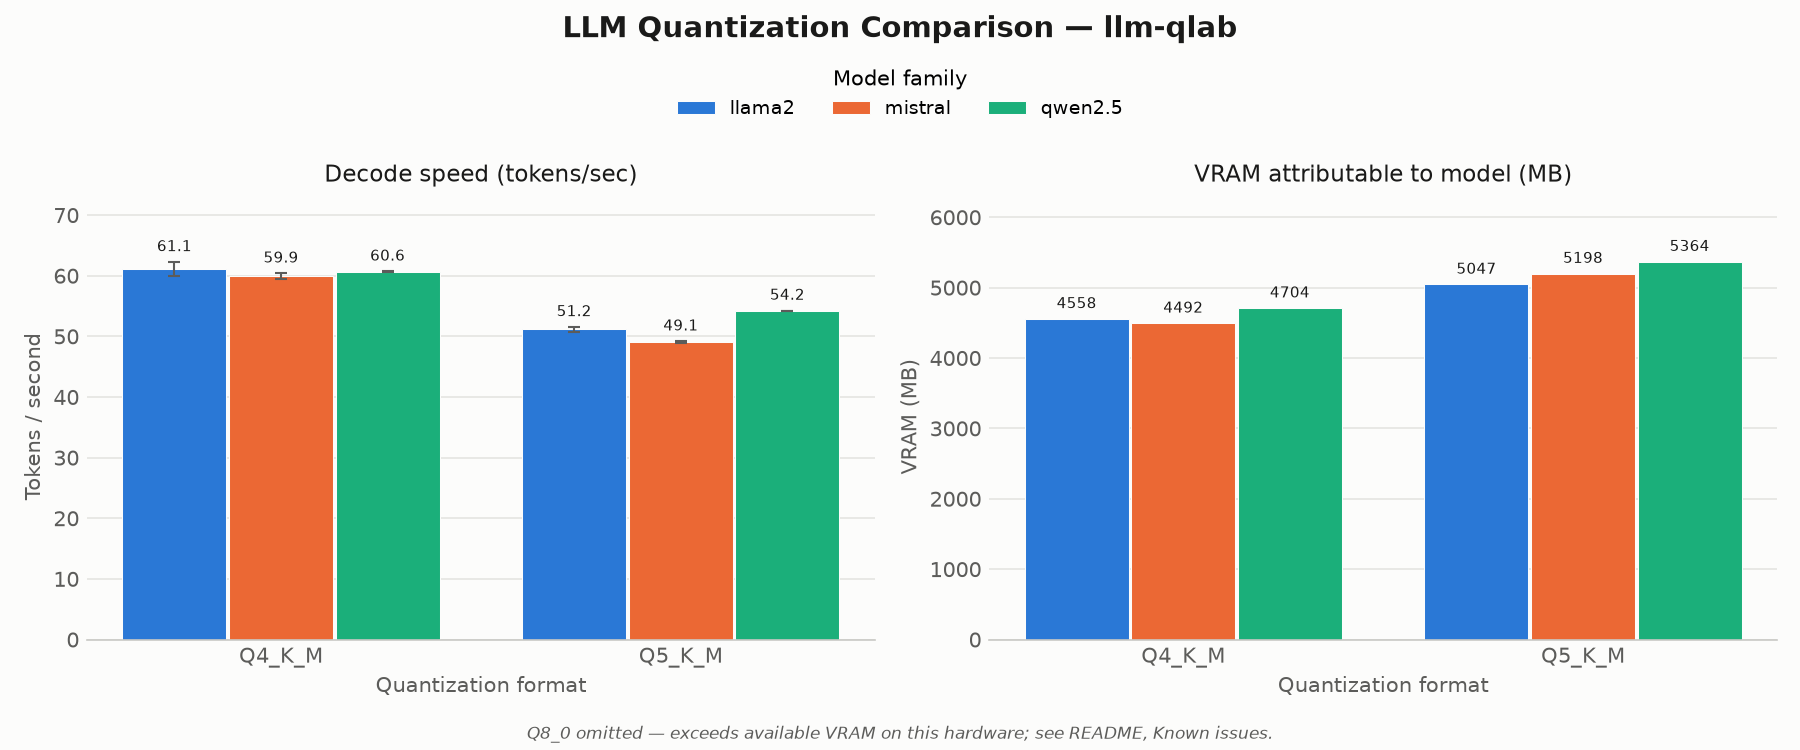
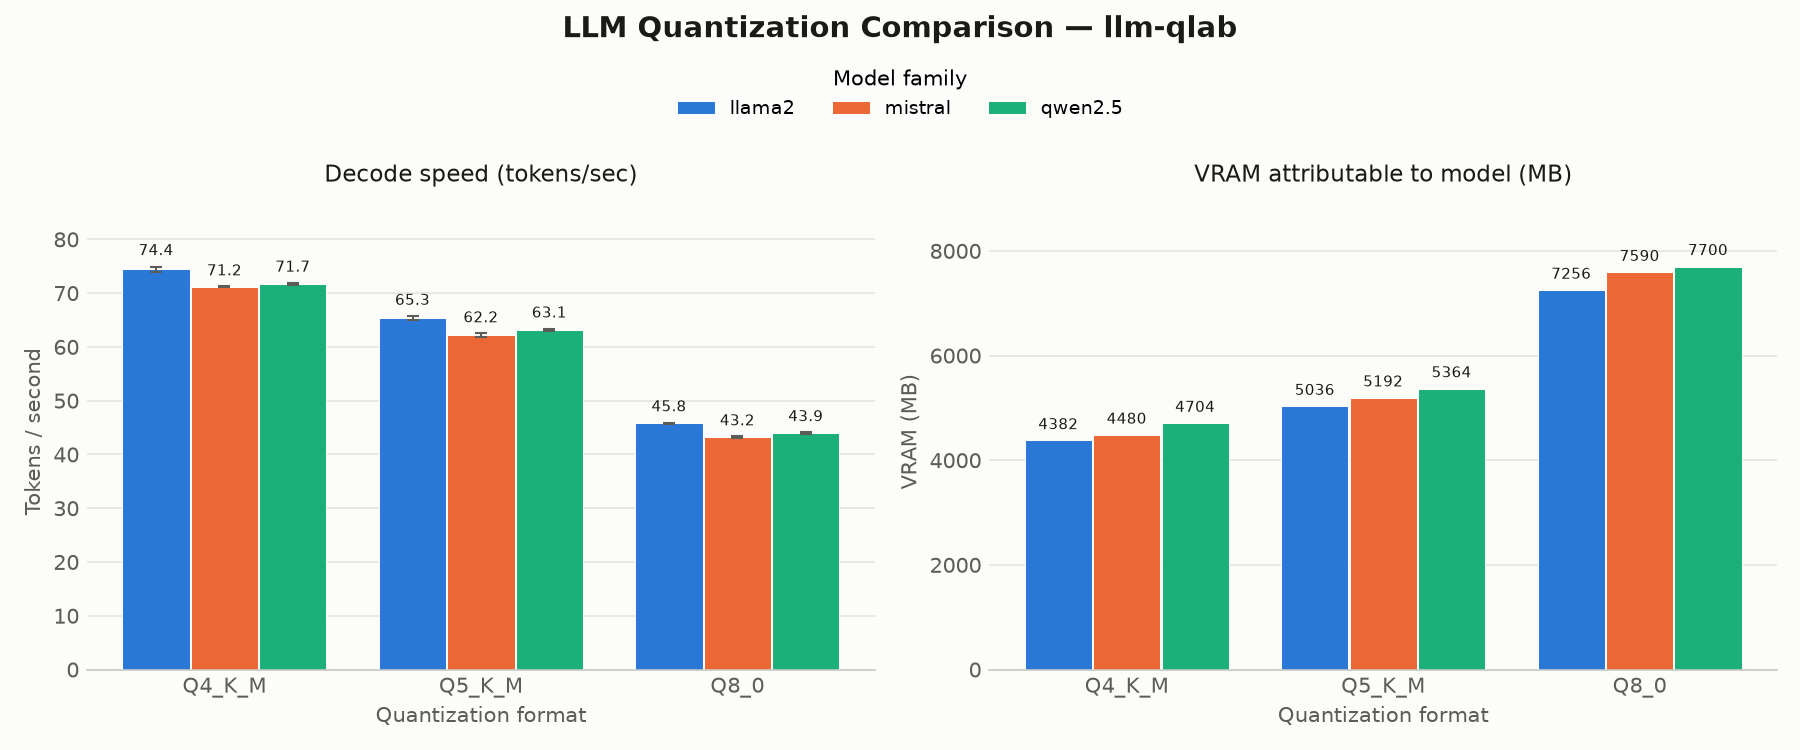
results: full 9-configuration sweep at verified P0; Q8_0 now measurable
Taking the display off the discrete GPU freed ~580 MB of VRAM and let the card
reach P0 (12101 MHz) instead of topping out at P2. Both mattered:

- All three Q8_0 configurations now load and measure, where every one was
  previously refused. Free VRAM went 7314 -> 7891 MB with the panel moved to the
  integrated GPU. vram_residency is identical between each family Q8_0 row and
  its Q4_K_M row, which is the evidence nothing is paging.
- Six of nine rows held 12101 MHz exactly for every run; the three Q8_0 rows
  averaged 11561-11665 and were admitted on throughput coherence instead. That
  leaves a ~4% clock confound on cross-quant comparisons, now documented.

Decode falls monotonically with model size in all three families with no
exceptions -- the physics check the previous sweep failed, where Qwen2.5 Q5_K_M
decoded faster than its own Q4_K_M across two independent passes. Effective
bandwidth against device-resident weights spans 284-315 GB/s, rising 5-7% from
Q4_K_M to Q8_0; two untested hypotheses for that trend are noted rather than
asserted.

Run-to-run stdev is 0.06-0.50 t/s against 1.21 before, and the whole sweep took
4m34s because fewer runs are rejected once the card can hold its clock.

Charts: the by-family legend was covering the tallest bar of the rightmost
group once Q8_0 became measurable; moved above the axes.

The README case study now shows the same configuration at three measurement
[…]

diff --git a/compare_quants.py b/compare_quants.py
@@ -327,10 +327,16 @@ def plot_comparison_by_family(df: pd.DataFrame) -> None:
     ax.set_title("Decode Speed by Model Family")
     ax.set_xticks(list(x))
     ax.set_xticklabels(families)
-    ax.legend(title="Quant type")
+    # Figure-level and above the axes: an in-axes legend covered the tallest
+    # bar of the rightmost group once Q8_0 rows became measurable.
+    handles, labels_ = ax.get_legend_handles_labels()
+    fig.legend(handles, labels_, title="Quant type", frameon=False,
+               loc="upper center", bbox_to_anchor=(0.5, 0.93),
+               ncol=len(quants), fontsize=9)
+    ax.margins(y=0.12)
 
     _caption_for_empty(fig, empty_quants)
-    plt.tight_layout(rect=(0, 0.04 if empty_quants else 0, 1, 1))
+    plt.tight_layout(rect=(0, 0.04 if empty_quants else 0, 1, 0.88))
     plt.savefig(OUTPUT_PNG_FAMILY, dpi=150)
     print(f"Chart saved to {OUTPUT_PNG_FAMILY}")
 

diff --git a/README.md b/README.md
@@ -198,11 +198,19 @@ than a pair, and flag any row that cannot be measured cleanly as
 `unstable_clocks` so it is excluded from charts rather than merely warned about.
 The effect on the same configuration:
 
-| | Before | After |
-| --- | --- | --- |
-| llama2 Q4_K_M decode | 53.19 / 65.75 across passes | 61.08 ± 1.18 |
-| Reported stdev | ± 1.21 | ± 0.17 on a verification run |
-| Cross-pass drift | 23.6% | clock recorded per row |
+The effect on llama-2 Q4_K_M, the configuration that first showed the split:
+
+| | Before the fix | After, at P2 | After, at P0 |
+| --- | --- | --- | --- |
+| Decode t/s | 53.19 / 65.75 across two passes | 61.08 ± 1.18 | 74.43 ± 0.50 |
+| Clock during measurement | unrecorded | 11101 MHz | 12101 MHz |
+| Cross-pass drift | 23.6% | — | — |
+
+The middle column is the same harness measuring the same model with the clock
+verified but the card unable to reach P0, because it was also driving the
+display. The right column is after that was fixed too. Neither is a speedup over
+the left: all three are the same model on the same GPU, and the differences are
+the measurement conditions the original harness could not see.
 
 The warmup trace caught the mechanism in the act — 49.2 t/s while pinned at
 9001 MHz, stepping to 57 t/s on reaching 11101 MHz, in a single run sequence.
@@ -216,60 +224,67 @@ The warmup trace caught the mechanism in the act — 49.2 t/s while pinned at
 ## Results
 
 Measured 2026-08-04 on the hardware below, Armory Crate **Turbo** profile
-(108 W GPU ceiling against a 55 W default), full GPU offload
+(115 W GPU ceiling) with the dGPU **not driving a display**, full GPU offload
 (`--n-gpu-layers 99`), ~256-token prompt, 127 tokens generated, **median ±
 sample stdev over 5 clock-verified runs** with a discarded warmup. Every row was
-timed via llama.cpp perf counters and every run was verified to have held its
-memory clock throughout — see [clock verification](#throughput-is-only-comparable-at-a-comparable-clock).
+timed via llama.cpp perf counters, reported `offload_state = resident`, and was
+verified to have held its memory clock throughout — see
+[clock verification](#throughput-is-only-comparable-at-a-comparable-clock).
 
 | Family | Quant | Decode t/s | Prefill t/s | TTFT (ms) | Mem clock | VRAM (MB) | Size (MB) |
 | --- | --- | --- | --- | --- | --- | --- | --- |
-| llama2 | Q4_K_M | 61.08 ± 1.18 | 1662.97 ± 54.06 | 156.59 ± 5.31 | 11101 | 4558 | 3892 |
-| llama2 | Q5_K_M | 51.17 ± 0.37 | 1530.23 ± 12.79 | 170.51 ± 1.42 | 11101 | 5047 | 4562 |
-| mistral | Q4_K_M | 59.89 ± 0.51 | 1648.19 ± 16.75 | 157.99 ± 1.63 | 11101 | 4492 | 4166 |
-| mistral | Q5_K_M | 49.07 ± 0.13 | 1472.59 ± 5.03 | 176.77 ± 0.60 | 11141 | 5198 | 4894 |
-| qwen2.5 | Q4_K_M | 60.63 ± 0.08 | 2112.14 ± 2.52 | 123.40 ± 0.14 | 11101 | 4704 | 4466 |
-| qwen2.5 | Q5_K_M | 54.18 ± 0.07 | 2065.78 ± 4.32 | 126.17 ± 0.30 | 11545 | 5364 | 5193 |
+| llama2 | Q4_K_M | 74.43 ± 0.50 | 2788.19 ± 9.14 | 93.86 ± 0.30 | 12101 | 4382 | 3892 |
+| llama2 | Q5_K_M | 65.31 ± 0.37 | 2671.44 ± 9.19 | 97.91 ± 0.33 | 12101 | 5036 | 4562 |
+| llama2 | Q8_0 | 45.78 ± 0.10 | 2829.01 ± 7.22 | 92.59 ± 0.23 | 11561 | 7256 | 6829 |
+| mistral | Q4_K_M | 71.18 ± 0.06 | 2692.24 ± 10.52 | 97.28 ± 0.42 | 12101 | 4480 | 4166 |
+| mistral | Q5_K_M | 62.17 ± 0.33 | 2585.53 ± 5.77 | 101.18 ± 0.26 | 12101 | 5192 | 4894 |
+| mistral | Q8_0 | 43.17 ± 0.17 | 2708.80 ± 12.18 | 96.77 ± 0.42 | 11646 | 7590 | 7339 |
+| qwen2.5 | Q4_K_M | 71.69 ± 0.22 | 3355.53 ± 9.92 | 78.32 ± 0.33 | 12101 | 4704 | 4466 |
+| qwen2.5 | Q5_K_M | 63.15 ± 0.23 | 3269.73 ± 17.44 | 80.21 ± 0.57 | 12101 | 5364 | 5193 |
+| qwen2.5 | Q8_0 | 43.91 ± 0.19 | 3493.31 ± 8.89 | 75.24 ± 0.26 | 11665 | 7700 | 7723 |
 
-All three Q8_0 configurations were **refused, not measured** — see
-[the 8 GB ceiling](#q8_0-does-not-fit-an-8-gb-card).
+All nine configurations measured cleanly, including Q8_0 — which required
+taking the display off the discrete GPU. See
+[fitting Q8_0 on 8 GB](#fitting-q8_0-on-an-8-gb-card).
 
 ![Quantization comparison](results/comparison.png)
 
-**Prefill runs roughly 30x decode.** Prefill processes the prompt in parallel
-and is compute-bound; decode emits one token at a time and is
-memory-bandwidth-bound. An earlier revision of this README reported ~10x from a
-16-token prompt, which is too short to saturate the GPU and understates prefill.
-The original pre-fix numbers had the ratio *inverted* — see the case study above.
+**Prefill runs 40-75x decode.** Prefill processes the prompt in parallel and is
+compute-bound; decode emits one token at a time and is memory-bandwidth-bound.
+An earlier revision of this README reported ~10x from a 16-token prompt, which
+is too short to saturate the GPU and understates prefill. The original pre-fix
+numbers had the ratio *inverted* — see the case study above.
 
 ### Does the data behave like memory bandwidth?
 
-If decode is bandwidth-bound, `decode_tps × model_size` should be roughly
-constant within a family — the same bytes-per-second moving through the memory
-system regardless of how the weights are quantized.
+If decode is bandwidth-bound, `decode_tps × weights` should be roughly constant
+within a family — the same bytes-per-second moving through the memory system
+regardless of how the weights are quantized. Weights here are device-resident
+bytes rather than file size, since the embedding table stays on the host.
 
-| Family | Q4_K_M | Q5_K_M | Ratio |
-| --- | --- | --- | --- |
-| llama2 | 237.7 GB/s | 233.4 GB/s | 0.98 |
-| mistral | 249.5 GB/s | 240.1 GB/s | 0.96 |
-| qwen2.5 | 270.8 GB/s | 281.4 GB/s | 1.04 |
+| Family | Q4_K_M | Q5_K_M | Q8_0 | Spread |
+| --- | --- | --- | --- | --- |
+| llama2 | 284.4 GB/s | 292.3 GB/s | 306.6 GB/s | 7.2% |
+| mistral | 291.5 GB/s | 298.9 GB/s | 311.1 GB/s | 6.3% |
+| qwen2.5 | 299.2 GB/s | 305.4 GB/s | 314.9 GB/s | 5.0% |
 
-Within 4% in every family. This is the check the previous sweep failed: Qwen2.5
+Decode falls monotonically with size in every family — Q4_K_M > Q5_K_M > Q8_0,
+nine rows, no exceptions. This is the check the previous sweep failed: Qwen2.5
 Q5_K_M decoded *faster* than its own Q4_K_M despite being 16% larger, and did so
-reproducibly across two passes. That inversion is gone, and it was a clock
-artifact rather than a property of the model.
+reproducibly across two passes. That inversion is gone; it was a clock artifact.
 
-Qwen sustains ~15% more effective bandwidth than Llama-2 across both quants.
-That is consistent with its placement: Qwen2.5-7B has 28 transformer layers to
-Llama-2's 32 and keeps a much larger embedding table on the host
-(`vram_residency` 0.93 versus 0.98), so less weight traffic crosses the memory
-bus per token than file size alone suggests.
+Effective bandwidth is not perfectly flat — it rises 5-7% from Q4_K_M to Q8_0.
+Two candidate explanations, neither yet tested: fixed per-token cost (sampling,
+kernel launch, the Python loop) is amortized better at 44 t/s than at 74, and
+Q8_0 dequantization is arithmetically trivial next to a K-quant, so the larger
+format sits closer to being purely bandwidth-bound. The trend is consistent in
+direction and magnitude across all three families.
 
 > **Not comparable to earlier revisions of this table.** Prompt length, the
-> VRAM-release fix and clock verification all changed between sweeps. Decode is
-> roughly double what this README reported on 2026-08-03, and most of that is a
-> change in *measurement conditions*, not a speedup. The older numbers were
-> averages over an unrecorded mix of memory P-states.
+> VRAM-release fix, clock verification, the power profile and the display mode
+> all changed across sweeps. Decode is roughly triple what this README reported
+> on 2026-08-03. Almost none of that is a speedup — it is measurement conditions
+> that were previously uncontrolled and unrecorded.
 
 ### GPU offload ladder — withheld pending re-measurement
 
@@ -297,29 +312,51 @@ of the models and the loader rather than of the timing path:
 This section exists because a benchmark that hides its unstable numbers is
 worth less than one that names them.
 
-### Q8_0 does not fit an 8 GB card
+### Fitting Q8_0 on an 8 GB card
 
-All three Q8_0 configurations are **refused before loading**, and this is the
-answer rather than a gap in it:
+A 7B model at Q8_0 fits, but only just, and only if the discrete GPU is not also
+drawing your desktop. On this laptop the dGPU was driving the panel directly
+(ASUS "Ultimate" / MUX mode), which permanently held ~580 MB of VRAM for the
+framebuffer and compositor. Switching to hybrid mode routes the display through
+the integrated GPU and hands that memory back:
 
-| Family | Weights | Required (+14% runtime) | Free VRAM | Verdict |
-| --- | --- | --- | --- | --- |
-| llama2 | 6829 MB | 7854 MB | 7339 MB | refused |
-| mistral | 7339 MB | 8440 MB | 7321 MB | refused |
-| qwen2.5 | 7723 MB | 8882 MB | 7312 MB | refused |
+| | dGPU drives display | Display on iGPU |
+| --- | --- | --- |
+| VRAM in use at idle | 578-985 MB | **0 MB** |
+| VRAM free | 7314 MB | **7891 MB** |
+| Q8_0 configurations measurable | 0 of 3 | **3 of 3** |
 
-The board has 8151 MB total with ~560 MB held by the desktop compositor. A 7B
-model at Q8_0 needs its weights plus KV cache, compute buffers and CUDA context;
-none of the three fits.
+The margins remain thin — 88 to 406 MB depending on family — so this is a
+boundary worth respecting rather than a comfortable fit. `vram_residency` is
+identical between each family's Q8_0 and its Q4_K_M row (0.98 / 0.98 / 0.93),
+which is the evidence that nothing is being paged.
 
-Earlier revisions of this harness *did* run them, and that is precisely the
-problem. A model larger than free VRAM still executes — the driver pages it —
-and returns a number that measures PCIe transfer rather than the model. Those
-numbers looked plausible and were bimodal and irreproducible, which is what
-started this whole investigation. Refusing to produce them is the fix.
+Two things make the difference between fitting and not, and neither is visible
+in file size:
 
-To measure Q8_0 at 7B you need a larger card. To characterize this one, the
-useful statement is the boundary itself.
+- **The KV cache is architectural, not proportional.** At 512 tokens it is
+  256 MB for Llama-2 (full multi-head attention, 32 KV heads over 32 layers)
+  and 28 MB for Qwen2.5 (4 KV heads over 28) — a 9x range at comparable file
+  sizes. Llama-2 has the smallest Q8_0 file and the least headroom.
+- **The embedding table never reaches the device.** llama.cpp keeps
+  `token_embd` on the host at full offload: 133 MB for a 32k vocabulary,
+  552 MB for Qwen2.5's 152k. Charging VRAM for it wrongly refused Qwen2.5 Q8_0
+  on a card where it fits with 159 MB to spare.
+
+Earlier revisions of this harness ran Q8_0 anyway, at a point where it did not
+fit, and that is what started this investigation. A model larger than free VRAM
+still executes — the driver pages it — and returns a number that measures PCIe
+transfer. Those numbers were bimodal and irreproducible. The harness now refuses
+rather than producing them.
+
+### Q8_0 rows were measured at a slightly lower clock
+
+Q4_K_M and Q5_K_M held P0 (12101 MHz) throughout. The Q8_0 rows averaged
+11561-11665 MHz, drifting between P0 and P2 across their runs — admitted because
+their throughput agreed to better than 1%, but a ~4% lower clock nonetheless.
+Cross-*quant* comparisons therefore carry a few percent of clock confound that
+within-quant comparisons do not, and the true Q4→Q8 falloff is marginally
+steeper than the table shows.
 
 ### Qwen2.5 keeps more weight on the host
 
@@ -333,11 +370,10 @@ comparisons at equal device-resident bytes.
 ### The remaining clock spread is bounded, not eliminated
 
 The card cannot be pinned to P0 under WDDM. What the harness guarantees is that
-every published run held at least P2 throughout and that runs aggregated
+every published run held at least P2 throughout, and that runs aggregated
 together agree with one another; it does not guarantee every run sat at exactly
-the same clock. Two rows in the table above were measured slightly above P2
-(11545 and 11141 MHz), so cross-*family* comparisons carry a residual
-uncertainty of a few percent. Within-family comparisons at 11101 MHz do not.
+the same clock. Six of the nine rows above held 12101 MHz exactly; the three
+Q8_0 rows did not, as noted above.
 
 ### The offload ladder needs re-running
 
@@ -357,8 +393,15 @@ are withheld entirely rather than republished with caveats.
 | **Python** | 3.14 |
 | **llama-cpp-python** | 0.3.20, built from source with `GGML_CUDA=on` |
 | **Host compiler** | MSVC 14.44 (Visual Studio Build Tools 2022) |
-| **Power profile** | Armory Crate Turbo — 108 W GPU ceiling (55 W default, 115 W max) |
+| **Power profile** | Armory Crate Turbo — 115 W GPU ceiling (55 W default) |
+| **GPU mode** | Hybrid — display driven by the integrated GPU, dGPU compute-only |
 
+> **Take the display off the discrete GPU.** On a MUX-equipped laptop, running
+> the dGPU as the display adapter costs ~580 MB of VRAM permanently and put
+> every Q8_0 configuration out of reach. Switching to hybrid mode (ASUS
+> "Standard", not "Eco" — that disables the dGPU entirely) requires a reboot and
+> costs nothing for compute: CUDA runs on the dGPU either way.
+>
 > **Laptop GPUs need the highest power profile.** Under WDDM the memory clock
 > cannot be locked, and a conservative profile leaves the card oscillating
 > between P-states mid-run. The harness will tell you: rows measured at an
